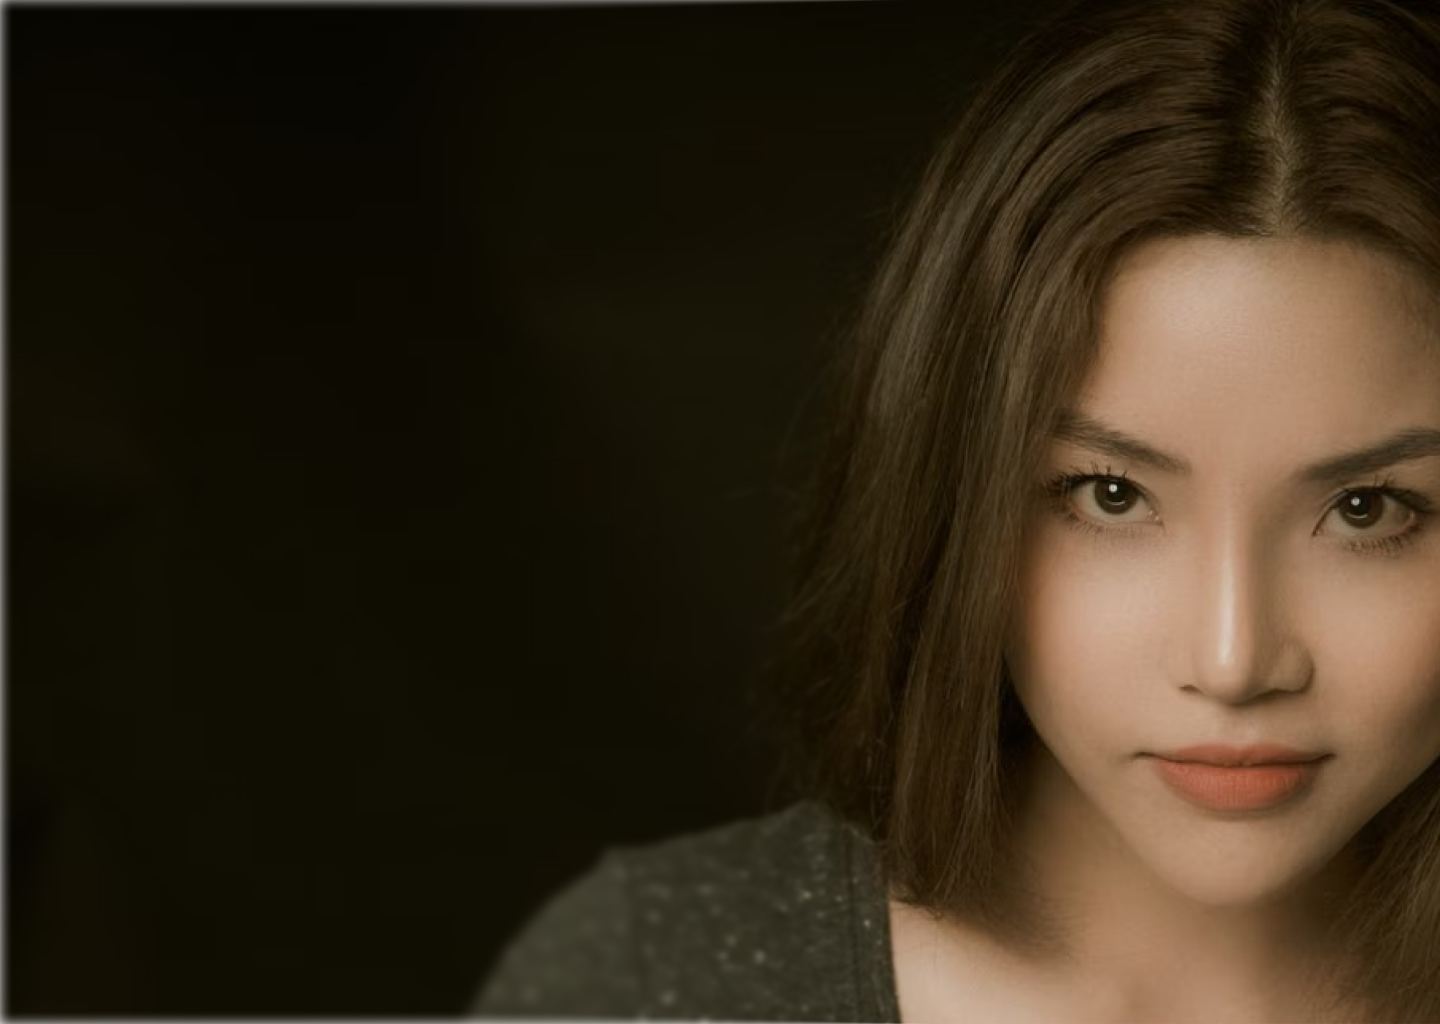
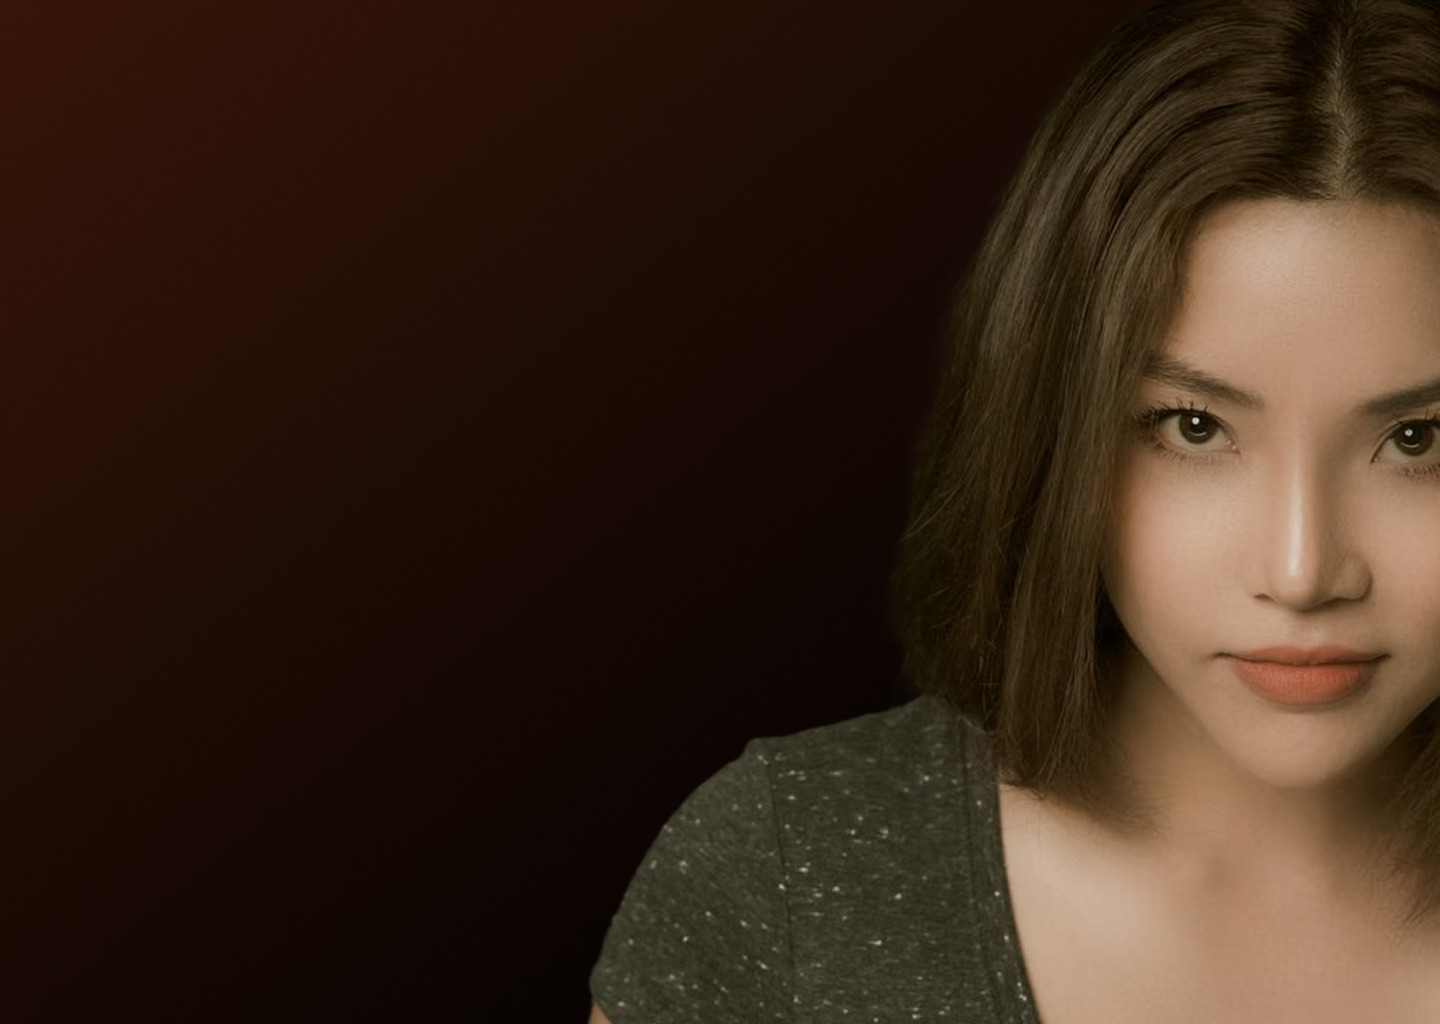
feat: code page background

diff --git a/index.html b/index.html
@@ -17,9 +17,11 @@
     <!-- OG TAGS -->
     <meta property="og:title" content="Make Your Professional CV" />
     <meta property="og:url" content="https://professionalcv.com" />
-    <meta propert="og:description" content="An incredible CV generator that is totally free and open source." />
-    <meta property="og:image" content="./images/site-favicon.svg">
-
+    <meta
+      propert="og:description"
+      content="An incredible CV generator that is totally free and open source."
+    />
+    <meta property="og:image" content="./images/site-favicon.svg" />
 
     <link rel="canonical" href="https://professionalcv.com" />
     <link rel="stylesheet" href="css/reset.css" />
@@ -27,5 +29,7 @@
     <script src="js/script.jsg"></script>
     <title>Make Your Professional CV</title>
   </head>
-  <body></body>
+  <body>
+    
+  </body>
 </html>

diff --git a/css/styles.css b/css/styles.css
@@ -1,1 +1,9 @@
 @import url('https://fonts.googleapis.com/css2?family=Libre+Caslon+Condensed:ital,wght@0,400..700;1,400..700&display=swap');
+
+body {
+  font-family: "Libre Caslon", serif;
+  background: url('../images/site-background.jpg');
+  background-repeat: no-repeat;
+  background-size: cover;
+  height: 100vh;
+}

diff --git a/SCOPE.md b/SCOPE.md
@@ -52,7 +52,7 @@
   - [x] Connect script to index
   - [x] Code head
   - [ ] Code body
-    - [ ] Page background
+    - [x] Page background
     - [ ] header
     - [ ] name section
     - [ ] contact & title section
